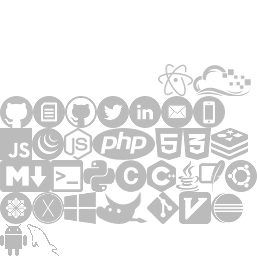
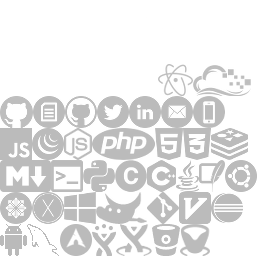
Skill update

Changed region(s): [[0.2179, 0.875, 0.8405, 1.0]]

diff --git a/index.html b/index.html
@@ -114,7 +114,7 @@
                 <div class="section-component section-body">
                     <br/>
                     <div class="ed-part">
-                        <div class="ed-part-date">2019 (Expected)</div>
+                        <div class="ed-part-date">2019</div>
                         <div class="ed-part-name"><strong>BSc. in Software Engineering</strong></div>
                         <div class="ed-part-school">University of Calgary <a href="https://ucalgary.ca"><img src="/extlink.svg"/></a></div>
                     </div>
@@ -149,29 +149,29 @@
                                                 <td><div class="progressShell"><div class="progressBar" style="width: 75%;"></div></div></td>
                                             </tr>
                                             <tr>
-                                                <td class="right">JQuery<a href="https://jquery.com">&nbsp;<img src="extlink.svg"/></a></td>
+                                                <td class="right">JQuery<a href="https://jquery.com" target="_blank">&nbsp;<img src="extlink.svg"/></a></td>
                                                 <td><div class="languageIcon" id="icon-jquery"></div></td>
                                                 <td><div class="progressShell"><div class="progressBar" style="width: 30%;"></div></div></td>
                                             </tr>
                                             <tr>
-                                                <td class="right">NodeJS<a href="https://nodejs.org">&nbsp;<img src="extlink.svg"/></a></td>
+                                                <td class="right">NodeJS<a href="https://nodejs.org" target="_blank">&nbsp;<img src="extlink.svg"/></a></td>
                                                 <td><div class="languageIcon" id="icon-nodejs"></div></td>
-                                                <td><div class="progressShell"><div class="progressBar" style="width: 90%;"></div></div></td>
+                                                <td><div class="progressShell"><div class="progressBar" style="width: 80%;"></div></div></td>
                                             </tr>
                                             <tr>
                                                 <td class="right">PHP</td>
                                                 <td><div class="languageIcon" id="icon-php"></div></td>
-                                                <td><div class="progressShell"><div class="progressBar" style="width: 10%;"></div></div></td>
+                                                <td><div class="progressShell"><div class="progressBar" style="width: 5%;"></div></div></td>
                                             </tr>
                                             <tr>
                                                 <td class="right">HTML</td>
                                                 <td><div class="languageIcon" id="icon-html"></div></td>
-                                                <td><div class="progressShell"><div class="progressBar" style="width: 80%;"></div></div></td>
+                                                <td><div class="progressShell"><div class="progressBar" style="width: 70%;"></div></div></td>
                                             </tr>
                                             <tr>
                                                 <td class="right">CSS</td>
                                                 <td><div class="languageIcon" id="icon-css"></div></td>
-                                                <td><div class="progressShell"><div class="progressBar" style="width: 50%;"></div></div></td>
+                                                <td><div class="progressShell"><div class="progressBar" style="width: 40%;"></div></div></td>
                                             </tr>
                                             <tr>
                                                 <td class="right">Markdown</td>
@@ -186,12 +186,12 @@
                                             <tr>
                                                 <td class="right">Python</td>
                                                 <td><div class="languageIcon" id="icon-python"></div></td>
-                                                <td><div class="progressShell"><div class="progressBar" style="width: 2%;"></div></div></td>
+                                                <td><div class="progressShell"><div class="progressBar" style="width: 30%;"></div></div></td>
                                             </tr>
                                             <tr>
                                                 <td class="right">C</td>
                                                 <td><div class="languageIcon" id="icon-c"></div></td>
-                                                <td><div class="progressShell"><div class="progressBar" style="width: 35%;"></div></div></td>
+                                                <td><div class="progressShell"><div class="progressBar" style="width: 15%;"></div></div></td>
                                             </tr>
                                             <tr>
                                                 <td class="right">C++</td>
@@ -237,9 +237,9 @@
                                                 <td><div class="progressShell"><div class="progressBar" style="width: 20%;"></div></div></td>
                                             </tr>
                                             <tr>
-                                                <td class="right">Redis<a href="http://redis.io">&nbsp;<img src="extlink.svg"/></a></td>
+                                                <td class="right">Redis<a href="http://redis.io" target="_blank">&nbsp;<img src="extlink.svg"/></a></td>
                                                 <td><div class="languageIcon" id="icon-redis"></div></td>
-                                                <td><div class="progressShell"><div class="progressBar" style="width: 65%;"></div></div></td>
+                                                <td><div class="progressShell"><div class="progressBar" style="width: 50%;"></div></div></td>
                                             </tr>
                                             <tr>
                                                 <td class="right">MySQL</td>
@@ -277,17 +277,22 @@
                                             <tr>
                                                 <td class="right">Ubuntu</td>
                                                 <td><div class="languageIcon" id="icon-ubuntu"></div></td>
-                                                <td><div class="progressShell"><div class="progressBar" style="width: 10%;"></div></div></td>
-                                            </tr>
-                                            <tr>
-                                                <td class="right">OSX</td>
-                                                <td><div class="languageIcon" id="icon-osx"></div></td>
-                                                <td><div class="progressShell"><div class="progressBar" style="width: 80%;"></div></div></td>
+                                                <td><div class="progressShell"><div class="progressBar" style="width: 50%;"></div></div></td>
                                             </tr>
                                             <tr>
                                                 <td class="right">CentOS</td>
                                                 <td><div class="languageIcon" id="icon-centos"></div></td>
                                                 <td><div class="progressShell"><div class="progressBar" style="width: 5%;"></div></div></td>
+                                            </tr>
+                                            <tr>
+                                                <td class="right">Arch</td>
+                                                <td><div class="languageIcon" id="icon-arch"></div></td>
+                                                <td><div class="progressShell"><div class="progressBar" style="width: 30%;"></div></div></td>
+                                            </tr>
+                                            <tr>
+                                                <td class="right">OSX</td>
+                                                <td><div class="languageIcon" id="icon-osx"></div></td>
+                                                <td><div class="progressShell"><div class="progressBar" style="width: 60%;"></div></div></td>
                                             </tr>
                                             <tr>
                                                 <td class="right">Windows</td>
@@ -323,7 +328,7 @@
                                         </colgroup>
                                         <tbody>
                                             <tr>
-                                                <td class="right">Gimp<a href="https://www.gimp.org/">&nbsp;<img src="extlink.svg"/></a></td>
+                                                <td class="right">Gimp<a href="https://www.gimp.org/" target="_blank">&nbsp;<img src="extlink.svg"/></a></td>
                                                 <td><div class="languageIcon" id="icon-gimp"></div></td>
                                                 <td><div class="progressShell"><div class="progressBar" style="width: 35%;"></div></div></td>
                                             </tr>
@@ -332,6 +337,26 @@
                                                 <td><div class="languageIcon" id="icon-git"></div></td>
                                                 <td><div class="progressShell"><div class="progressBar" style="width: 65%;"></div></div></td>
                                             </tr>
+                                            <tr>
+                                                <td class="right">JIRA<a href="https://www.atlassian.com/software/jira" target="_blank">&nbsp;<img src="extlink.svg"/></a></td>
+                                                <td><div class="languageIcon" id="icon-jira"></div></td>
+                                                <td><div class="progressShell"><div class="progressBar" style="width: 40%;"></div></div></td>
+                                            </td>
+                                            <tr>
+                                                <td class="right">Confluence<a href="https://www.atlassian.com/software/confluence" target="_blank">&nbsp;<img src="extlink.svg"/></a></td>
+                                                <td><div class="languageIcon" id="icon-confluence"></div></td>
+                                                <td><div class="progressShell"><div class="progressBar" style="width: 40%;"></div></div></td>
+                                            </td>
+                                            <tr>
+                                                <td class="right">Bitbucket<a href="https://www.atlassian.com/software/bitbucket" target="_blank">&nbsp;<img src="extlink.svg"/></a></td>
+                                                <td><div class="languageIcon" id="icon-bitbucket"></div></td>
+                                                <td><div class="progressShell"><div class="progressBar" style="width: 40%;"></div></div></td>
+                                            </td>
+                                            <tr>
+                                                <td class="right">Crucible<a href="https://www.atlassian.com/software/crucible" target="_blank">&nbsp;<img src="extlink.svg"/></a></td>
+                                                <td><div class="languageIcon" id="icon-crucible"></div></td>
+                                                <td><div class="progressShell"><div class="progressBar" style="width: 40%;"></div></div></td>
+                                            </td>
                                         </tbody>
                                     </table>
                                 </td>
@@ -361,22 +386,22 @@
                                         </colgroup>
                                         <tbody>
                                             <tr>
-                                                <td class="right">Vi / Vim<a href="http://www.vim.org/">&nbsp;<img src="extlink.svg"/></a></td>
+                                                <td class="right">Vi / Vim<a href="http://www.vim.org/" target="_blank">&nbsp;<img src="extlink.svg"/></a></td>
                                                 <td><div class="languageIcon" id="icon-vim"></div></td>
-                                                <td><div class="progressShell"><div class="progressBar" style="width: 1%;"></div></div></td>
+                                                <td><div class="progressShell"><div class="progressBar" style="width: 20%;"></div></div></td>
                                             </tr>
                                             <tr>
-                                                <td class="right">Atom<a href="https://atom.io">&nbsp;<img src="extlink.svg"/></a></td>
+                                                <td class="right">Atom<a href="https://atom.io" target="_blank">&nbsp;<img src="extlink.svg"/></a></td>
                                                 <td><div class="languageIcon" id="icon-atom"></div></td>
                                                 <td><div class="progressShell"><div class="progressBar" style="width: 50%;"></div></div></td>
                                             </tr>
                                             <tr>
-                                                <td class="right">Eclipse<a href="https://eclipse.org/">&nbsp;<img src="extlink.svg"/></a></td>
+                                                <td class="right">Eclipse<a href="https://eclipse.org/" target="_blank">&nbsp;<img src="extlink.svg"/></a></td>
                                                 <td><div class="languageIcon" id="icon-eclipse"></div></td>
                                                 <td><div class="progressShell"><div class="progressBar" style="width: 15%;"></div></div></td>
                                             </tr>
                                             <tr>
-                                                <td class="right">Android Studio<a href="https://developer.android.com/studio/index.html">&nbsp;<img src="extlink.svg"/></a></td>
+                                                <td class="right">Android Studio<a href="https://developer.android.com/studio/index.html" target="_blank">&nbsp;<img src="extlink.svg"/></a></td>
                                                 <td><div class="languageIcon" id="icon-androidstudio"></div></td>
                                                 <td><div class="progressShell"><div class="progressBar" style="width: 5%;"></div></div></td>
                                             </tr>
@@ -394,7 +419,7 @@
                 <div class="section-component section-body">
                     <br/>
                     <div class="ex-part">
-                        <div class="ex-part-name"><strong>Pason Systems (Anticipated)</strong> <a href="http://pason.com/"><img src="extlink.svg"/></a></div>
+                        <div class="ex-part-name"><strong>Pason Systems</strong> <a href="http://pason.com/" target="_blank"><img src="extlink.svg"/></a></div>
                         <div class="ex-part-date">May 2017 - August 2018</div>
                         <div class="ex-part-role">
                             Software Developer Intern, Enterprise Applications
@@ -402,12 +427,25 @@
                                 <li>Created web applications to increase efficiencies.</li>
                                 <li>Created applications (both server side and client side) to provide information to distributed field staff.</li>
                                 <li>Provided complex analytics for various departments to assist with decision making.</li>
+                                <li>Overcame large amounts of technical debt</li>
                             </ul>
-                            Technologies: Java, .NET, SQL, Javscript, HTML, C
+                            Technologies: Java, .NET, MySQL, Javscript (ES6, jQuery, NodeJS), HTML, Python (Pyramid), Bash, Puppet, Atlassian Suite
                         </div>
                     </div>
                     <div class="ex-part">
-                        <div class="ex-part-name"><strong>Electrical, Computer, and Software Engineering Students' Society</strong> <a href="https://zooengg.ca"><img src="/extlink.svg"/></a></div>
+                        <div class="ex-part-name"><strong>Alberta Student Energy Conference</strong> <a href="https://asec.ca" target="_blank"><img src="extlink.svg"/></a></div>
+                        <div class="ex-part-date">February 2017 - February 2018</div>
+                        <div class="ex-part-role">
+                            Vice President of Information Technology
+                            <ul>
+                                <li>Managed email server for entire team.</li>
+                                <li>Developed and deployed a new website.</li>
+                            </ul>
+                            Technologies: Javascript, HTML, CSS, MySQL
+                        </div>
+                    </div>
+                    <div class="ex-part">
+                        <div class="ex-part-name"><strong>Electrical, Computer, and Software Engineering Students' Society</strong> <a href="https://zooengg.ca" target="_blank"><img src="/extlink.svg"/></a></div>
                         <div class="ex-part-date">March 2016</div>
                         <div class="ex-part-role">
                             Web Developer, Webmaster, Systems Administrator
@@ -420,8 +458,8 @@
                         </div>
                     </div>
                     <div class="ex-part">
-                        <div class="ex-part-name"><strong>Calgary Stampede</strong> <a href="http://calgarystampede.ca"><img src="/extlink.svg"/></a></div>
-                        <div class="ex-part-date">July 2012 - Present</div>
+                        <div class="ex-part-name"><strong>Calgary Stampede</strong> <a href="http://calgarystampede.ca" target="_blank"><img src="/extlink.svg"/></a></div>
+                        <div class="ex-part-date">July 2012 - March 2017</div>
                         <div class="ex-part-role">
                             Customer Service Representative, Parking Coordinator <i>(2016)</i>, Lead Hand <i>(2015)</i>
                             <ul>
@@ -439,7 +477,7 @@
                 <div class="section-component section-body">
                     <br/>
                     <div class="p-part">
-                        <div class="p-part-name"><strong>Interactive Résumé Website</strong> <a href="https://sa.watz.ky"><img src="/extlink.svg"/></a></div>
+                        <div class="p-part-name"><strong>Interactive Résumé Website</strong> <a href="https://sa.watz.ky" target="_blank"><img src="/extlink.svg"/></a></div>
                         <div class="p-part-date">Summer, 2016</div>
                         <div class="p-part-desc">
                             <ul>
@@ -450,7 +488,7 @@
                         </div>
                     </div>
                     <div class="p-part">
-                        <div class="p-part-name"><strong>Zookin</strong> <a href="https://github.com/bufutda/zookin"><img src="/extlink.svg"/></a></div>
+                        <div class="p-part-name"><strong>Zookin</strong> <a href="https://github.com/bufutda/zookin" target="_blank"><img src="/extlink.svg"/></a></div>
                         <div class="p-part-date">January 2016 - Present</div>
                         <div class="p-part-desc">
                             <ul>
@@ -462,7 +500,7 @@
                         </div>
                     </div>
                     <div class="p-part">
-                        <div class="p-part-name"><strong>BufBot</strong> <a href="https://bufutda.com/bufbot"><img src="/extlink.svg"/></a></div>
+                        <div class="p-part-name"><strong>BufBot</strong> <a href="https://bufutda.com/bufbot" target="_blank"><img src="/extlink.svg"/></a></div>
                         <div class="p-part-date">September 2013 - Present</div>
                         <div class="p-part-desc">
                             <ul>
@@ -481,10 +519,17 @@
                 <div class="section-component section-body">
                     <br/>
                     <div class="v-part">
+                        <div class="v-part-name"><strong>Alberta Student Energy Conference</strong></div>
+                        <div class="v-part-date">February 2017 - February 2018</div>
+                        <div class="v-part-role">
+                            Vice President of Information Technology
+                        </div>
+                    </div>
+                    <div class="v-part">
                         <div class="v-part-name"><strong>Electrical, Computer, and Software Engineering Students' Society</strong></div>
                         <div class="v-part-date">September 2016 - Present</div>
                         <div class="v-part-role">
-                            Vice President Finance
+                            Vice President of Finance
                         </div>
                     </div>
                     <div class="v-part">
@@ -524,7 +569,7 @@
                                 </tr>
                                 <tr>
                                     <td><a href="https://twitter.com/bufutda" title="Twitter"><div class="c-tbl-img" id="c-twitter"></div></a></td>
-                                    <td><a href="https://twitter.com/bufutda" title="Twitter"><div class="c-tbl-data">Twitter</div></a></td>
+                                    <td><a href="https://twitter.com/bufutda" title="Twitter"><div class= target="_blank""c-tbl-data">Twitter</div></a></td>
                                 </tr>
                             </tbody>
                         </table>

diff --git a/tiles.css b/tiles.css
@@ -514,3 +514,24 @@
     background-position: -27px -224px;
     margin-right: 37px;
 }
+#icon-arch {
+    background-position: -60px -224px;
+    margin-right: 31px;
+}
+#icon-jira {
+    background-position: -92px -224px;
+    margin-right: 31px;
+    width: 24px;
+}
+#icon-confluence {
+    background-position: -116px -224px;
+    width: 36px;
+}
+#icon-bitbucket {
+    background-position: -152px -224px;
+    width: 28px;
+}
+#icon-crucible {
+    background-position: -180px -224px;
+    width: 30px;
+}
